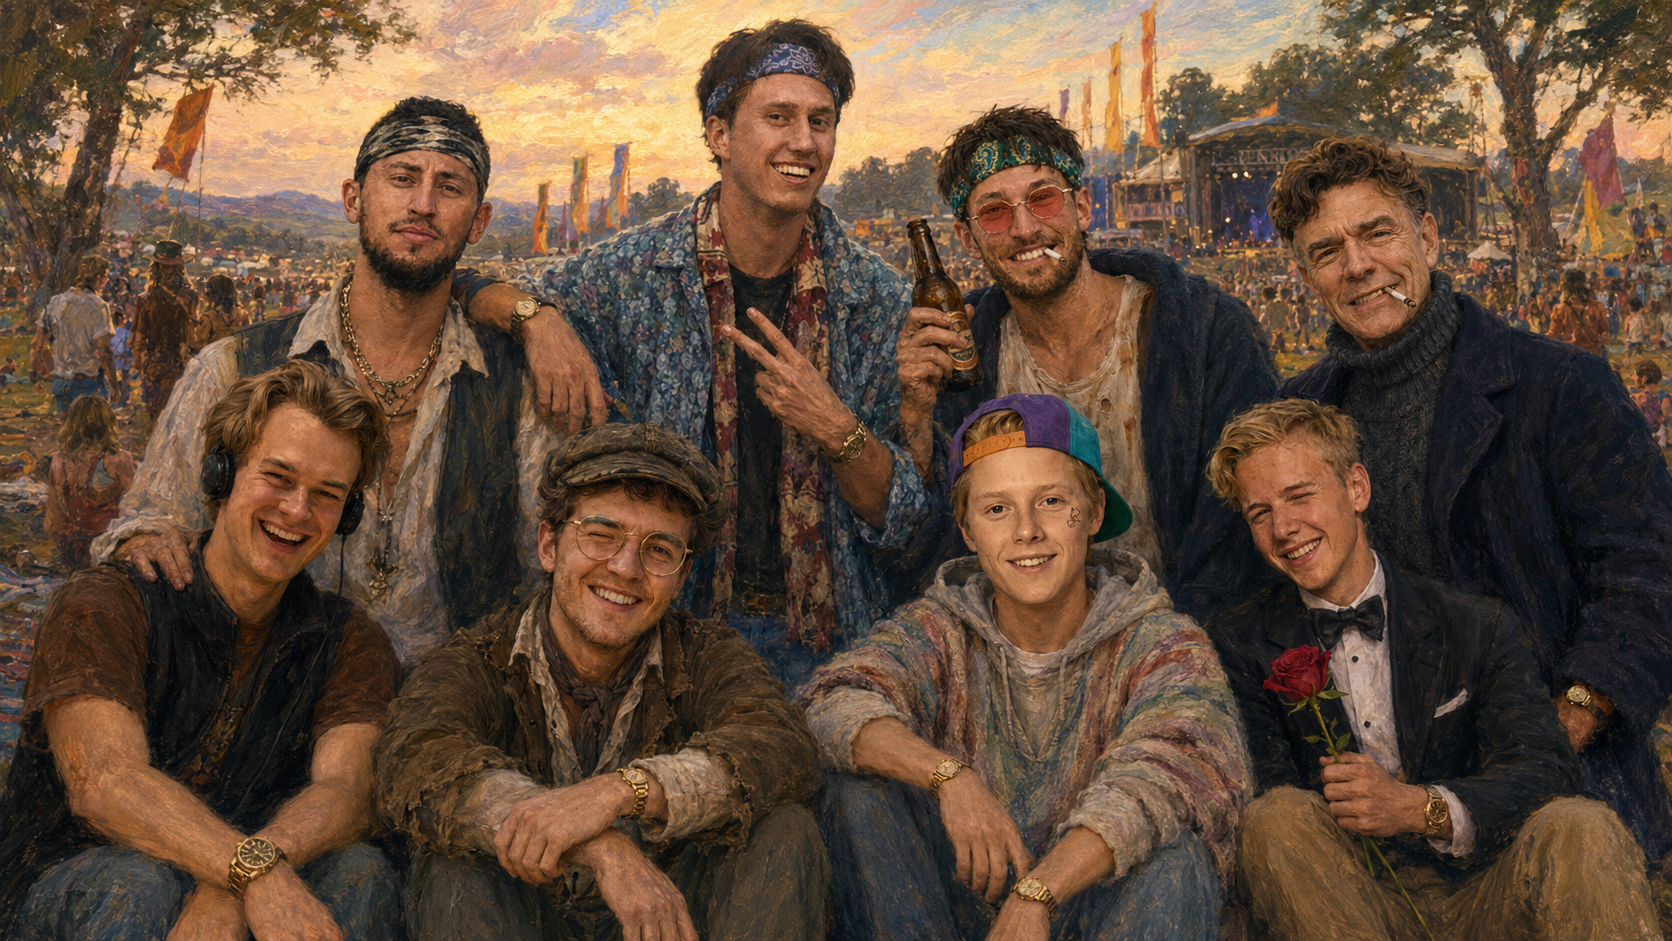
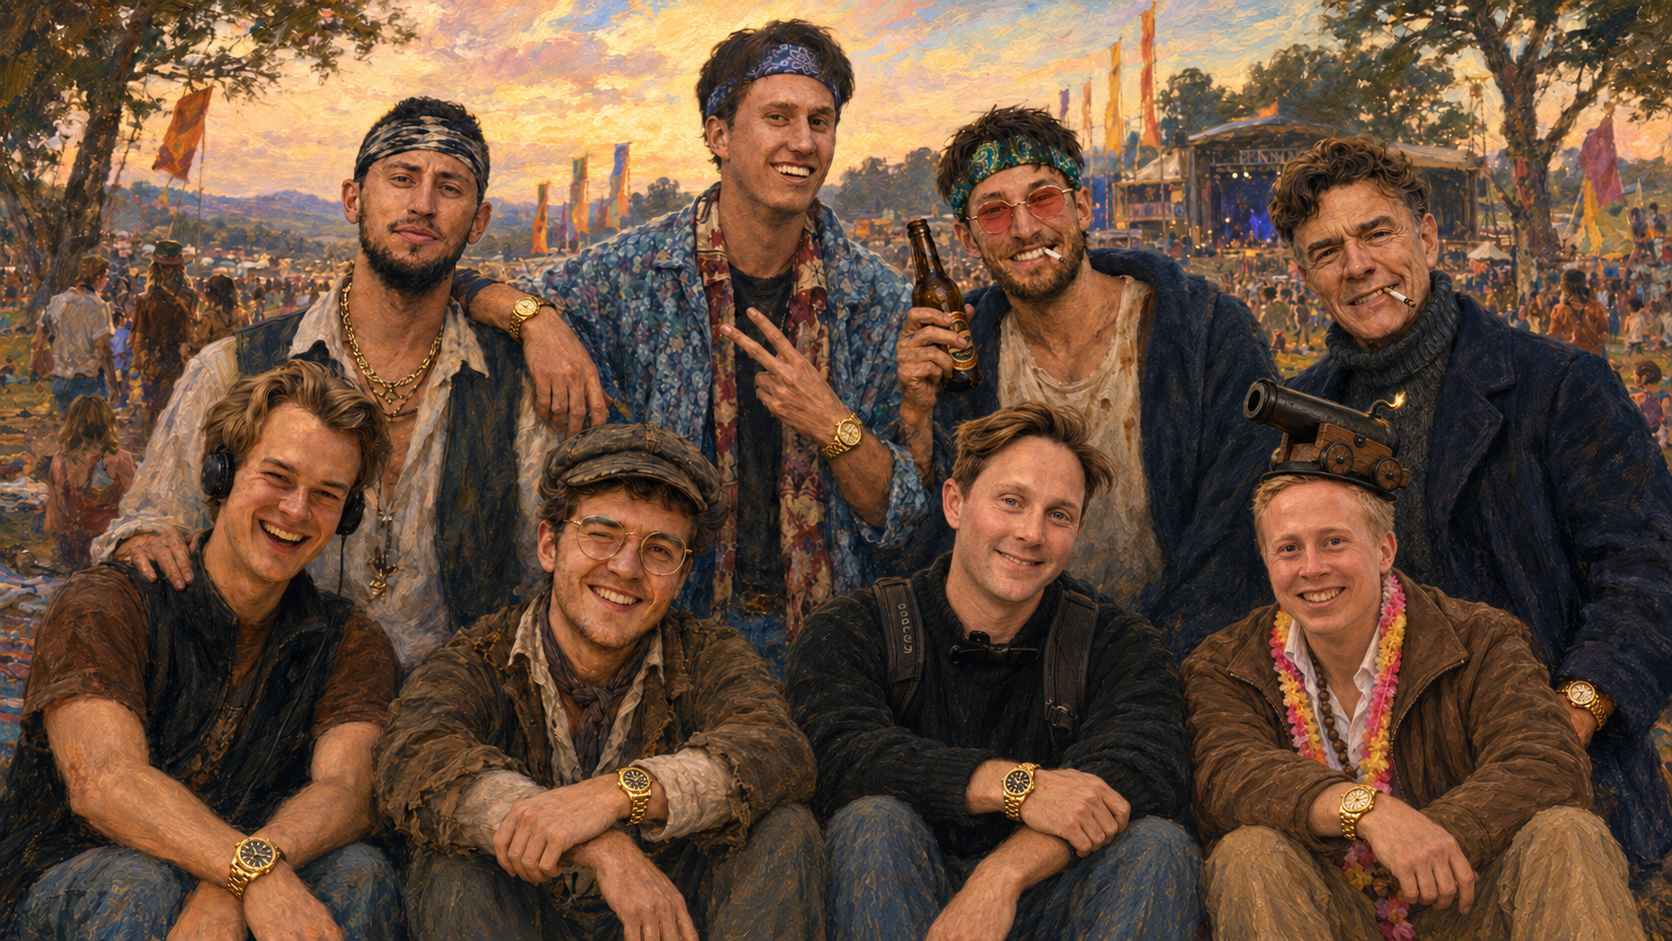
content: update category titles and clue image

diff --git a/src/content/game-pack.ts b/src/content/game-pack.ts
@@ -50,9 +50,9 @@ export const gamePackDefinition: GamePackDefinition = {
 
   categories: [
     { id: 'kategori-1', title: 'Shops at the Movies' },
-    { id: 'kategori-2', title: 'Hvor i all verden er Vandvik?' },
+    { id: 'kategori-2', title: 'Hvor i all verden er fattern' },
     { id: 'kategori-3', title: 'The Life of Shops' },
-    { id: 'kategori-4', title: 'Anders på flaska' },
+    { id: 'kategori-4', title: 'Pappa drikker mye' },
     { id: 'kategori-5', title: 'Voff Voff' },
   ],
 

diff --git a/FASIT.md b/FASIT.md
@@ -2,7 +2,7 @@
 
 Oppgi svar med kategori og poeng, for eksempel: `Shops at the Movies 100: Titanic`.
 
-| Poeng | Shops at the Movies | Hvor i all verden er Vandvik? | The Life of Shops | Anders på flaska | Voff Voff |
+| Poeng | Shops at the Movies | Hvor i all verden er fattern | The Life of Shops | Pappa drikker mye | Voff Voff |
 | ---: | --- | --- | --- | --- | --- |
 | 100 | AI-bilde: **Wolf of Wall Street** | Sang: Men at Work – **Down Under** | Sang: Circle of Life, Løvenes konge → **Fødsel** | AI-sang: **Akevitt** | Sang: Knee Socks → **Ape** |
 | 200 | AI-sang: Breaking Free → **High School Musical** | AI-bilde: **Praha** | AI-bilde: Gullklokke → **Pensjonering** | AI-bilde: Fidel Castro → **Cuba Libre** | AI-sang: Karpe → **Fisk** |
